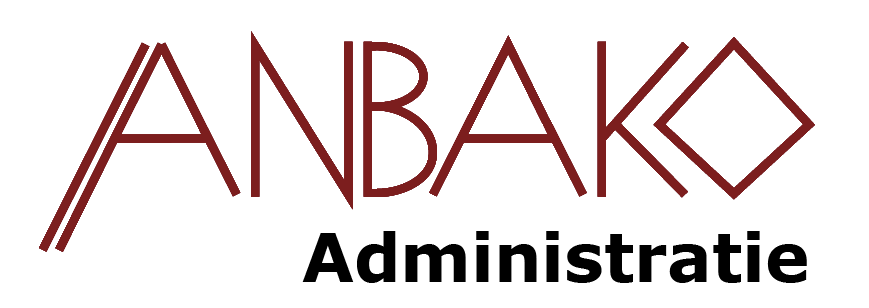
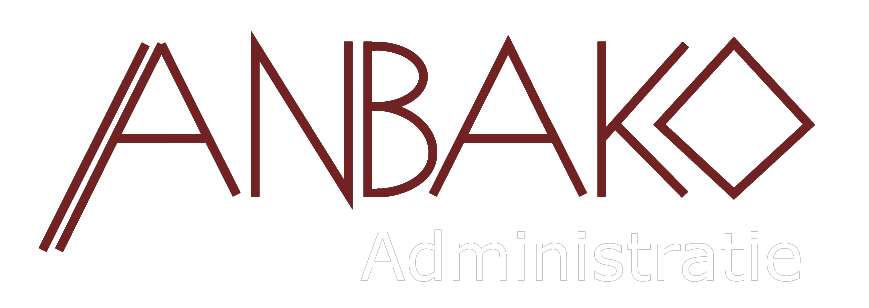
White template done

Changed region(s): [[0.3418, 0.7305, 0.9321, 0.9351]]

diff --git a/src/Components/Footer.js b/src/Components/Footer.js
@@ -1,31 +1,25 @@
 import React from 'react';
 import './Footer.css';
-import logo from './anbako-mock-white2.png';
+import logo from './anbako-mock3.png';
 
 function Footer() {
   return (
     <div className='footer-container'>
       <section className='footer-subscription'>
-      <img src={logo} alt="Logo Anbako" className='logo-Anbako'/>
-
-        <p className='footer-subscription-text'>
-          Uw maat voor administratie!
-        </p>
-          <p>
-          Vlierdenseweg 169
-          </p>
-          <p>
-          5756 AA  Vlierden
-          </p>
+      <img src={logo} alt="Logo Anbako" className='logo-Anbako-footer'/>
+          <div className='footer-text-adres'>
+          <p>Vlierdenseweg 169</p>
+          <p>5756 AA  Vlierden</p>
+          <p>KvK nummer: </p>
+          </div>
           <a href="tel:0646438073">Herman: 06 46438073</a>
           <a href="tel:0631907197">Anne: 06 31907197</a>
-        <a href = "mailto: h.janssen@anbako.nl">h.janssen@anbako.nl</a>
+        <a href = "mailto: herman@anbako.nl">herman@anbako.nl</a>
+        <a href = "mailto: anne@anbako.nl">anne@anbako.nl</a>
       </section>
       <section class='social-media'>
         <div class='social-media-wrap'>
-          <div class='footer-logo'>
-              Door Donna Janssen
-          </div>
+          <a href="https://www.linkedin.com/in/donna-van-grunsven/" target="_blank" rel="noopener noreferrer" className='footer-logo'>Door Donna Janssen</a>     
           <div class='website-rights'>Anbako © 2022</div>
         </div>
       </section>

diff --git a/src/Components/Footer.css b/src/Components/Footer.css
@@ -1,6 +1,6 @@
 .footer-container {
     background-color: #242424;
-    padding: 4rem 0 2rem 0;
+    padding: 10px;
     display: flex;
     flex-direction: column;
     justify-content: center;
@@ -13,14 +13,12 @@
     justify-content: center;
     align-items: center;
     text-align: center;
-  
-    margin-bottom: 24px;
     padding: 24px;
     color: #fff;
   }
 
   .footer-logo{
-    color:  rgb(161, 15, 15);
+    color:  rgb(124 30 30);
   }
   
   .footer-subscription > p {
@@ -125,7 +123,7 @@
   }
 
   a:link {
-    color:  rgb(161, 15, 15);
+    color:  rgb(124 30 30);
     background-color: transparent;
     text-decoration: none;
   }
@@ -145,6 +143,16 @@
   .website-rights {
     color: #fff;
     margin-bottom: 16px;
+  }
+
+  .logo-Anbako-footer{
+    width: 250px;
+    display: flex;
+    padding-bottom: 30px;
+  }
+
+  .footer-text-adres{
+    padding-bottom: 20px;
   }
   
   @media screen and (max-width: 820px) {

diff --git a/src/Components/Cards.js b/src/Components/Cards.js
@@ -9,7 +9,7 @@ function Cards() {
         <div className='cards_wrapper'>
         <div className='cards'>
       <div className='text-wrapper'>
-      <h1 class="main_heading">Over ons</h1>
+      <h1 className='main_heading'>Over ons</h1>
       <p>
       ANBAKO Administratie is in 2005 gestart door Herman. Per 1 januari 2023 wordt het kantoor in een gezamenlijke vorm voortgezet met dochter Anne.
       </p>
@@ -39,9 +39,6 @@ function Cards() {
       </div>
       </div>
       </div>
-<div className='empty-block-text'></div>
-
-
         </div>
       </div>
     </div>

diff --git a/public/index.html b/public/index.html
@@ -29,7 +29,7 @@
       work correctly both with client-side routing and a non-root public URL.
       Learn how to configure a non-root public URL by running `npm run build`.
     -->
-    <title>React App</title>
+    <title>Anbako</title>
   </head>
   <body>
     <noscript>You need to enable JavaScript to run this app.</noscript>
